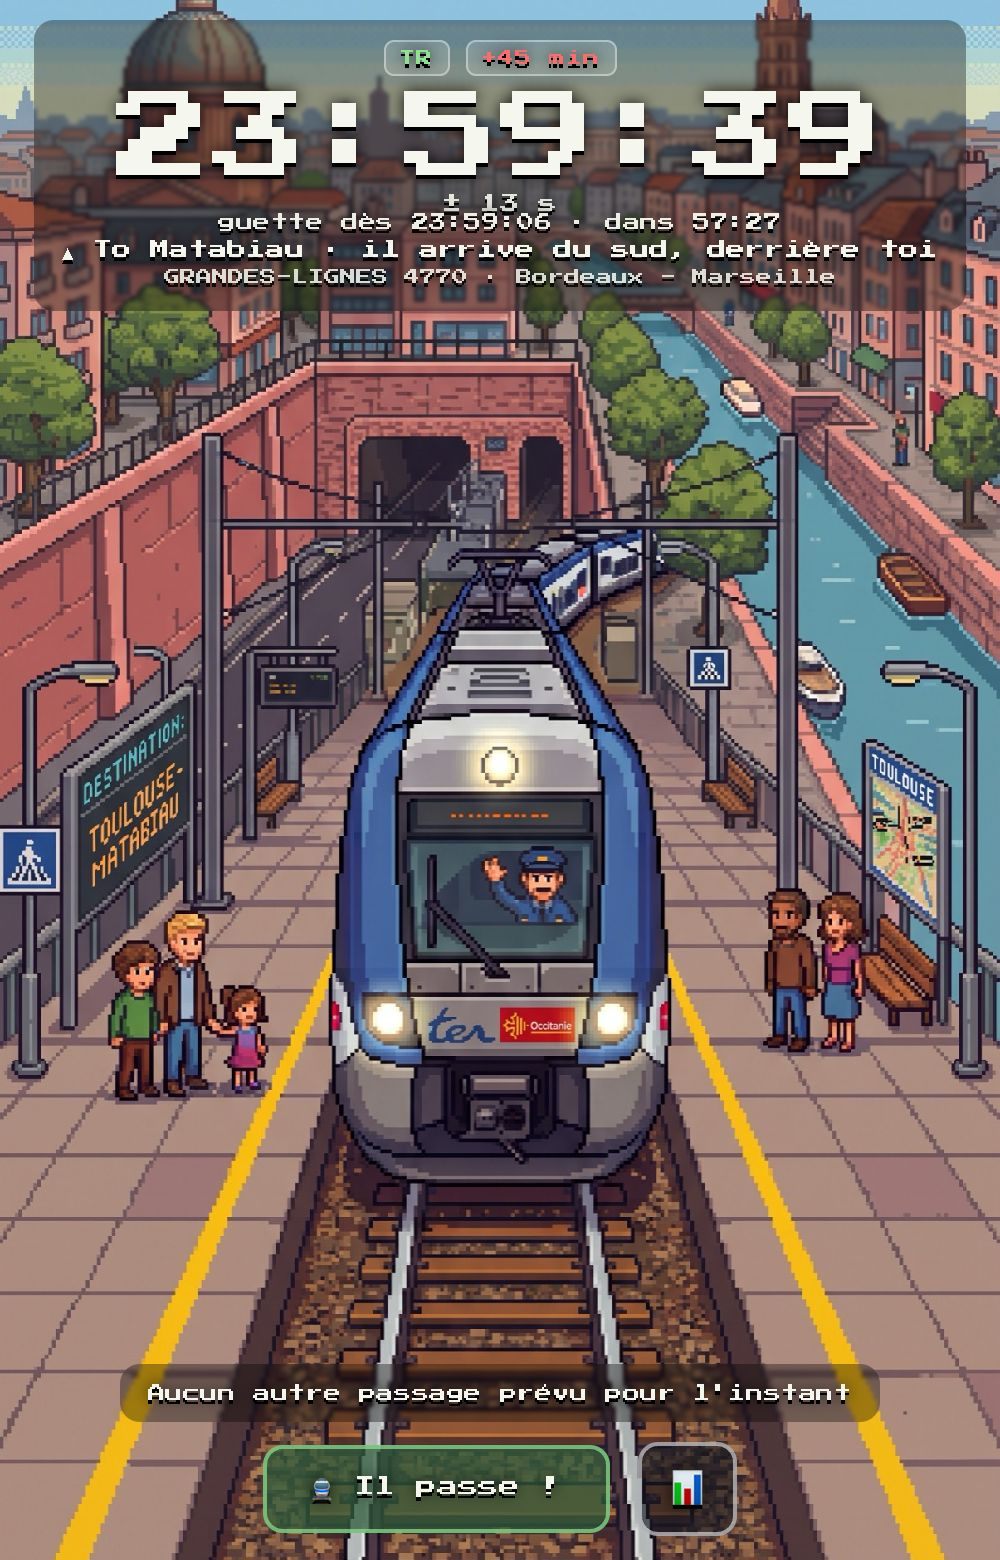
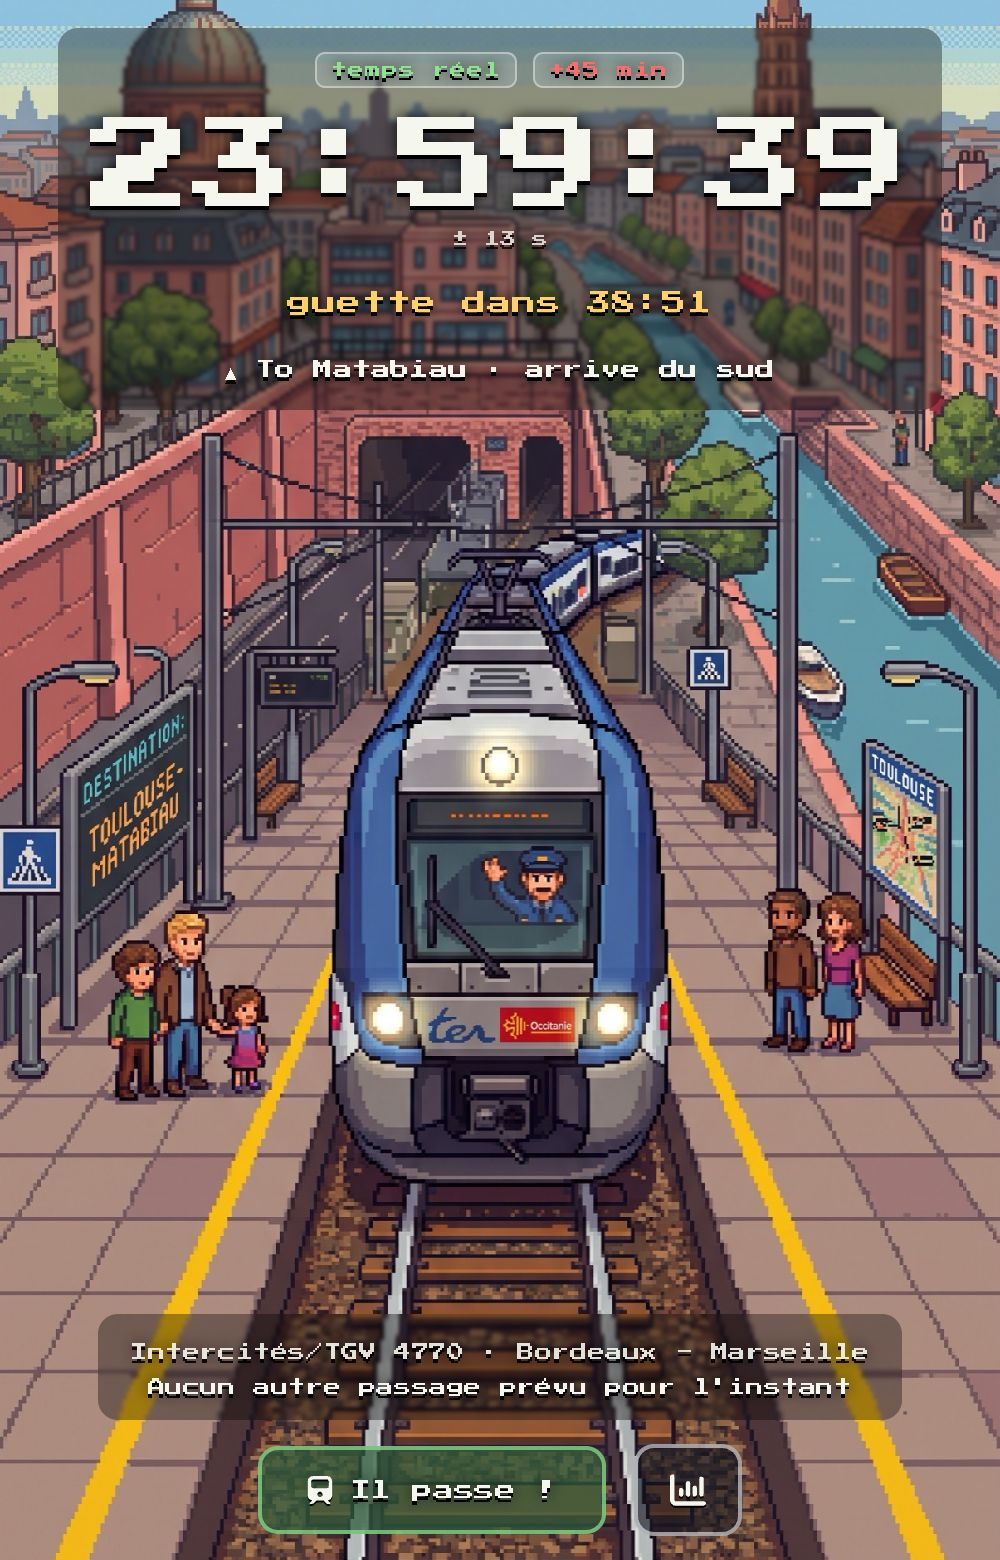
Itération d'interface d'après les retours du premier utilisateur
Réalisation par un agent sonnet sur consignes, revue et complétée fable.

La zone haute redescend à quatre niveaux aérés — badges, heure géante
avec l'incertitude intégrée, compte à rebours promu en accent ambré et
débarrassé du « dès HH:MM:SS » redondant, direction raccourcie. La ligne
d'identité du train descend dans la zone basse, qui avait la place, avec
un libellé de catégorie lisible (« Intercités/TGV », plus jamais
l'identifiant brut — l'agent a d'ailleurs relevé que la maquette de
démonstration écrivait la catégorie avec un tiret bas là où le serveur
met un trait d'union, et couvre les deux).

Les emojis des boutons cèdent la place à des vecteurs Font Awesome Free
en SVG inline — pas d'icônes Apple : la licence SF Symbols est limitée
aux plateformes Apple et le téléphone visé est un Pixel 9a, dont le
viewport 412×916 est désormais celui de référence (icône maskable au
manifest, vérifié aussi en 390×844).

La saisie manuelle d'un passage se pré-remplit à l'heure courante au
moment de l'ouverture.

Deux retouches nées de l'échange : le badge « TR » s'écrit désormais
« temps réel » — la question « que signifie TR ? » a suffi à prouver
qu'un sigle non compris n'informe personne — et le service worker passe
en réseau d'abord, cache en secours : en cache d'abord avec un nom figé,
le téléphone aurait servi à vie la première version téléchargée.

Claude-Session: https://claude.ai/code/session_016HczKdV5okpDZtYhaDDc1W

Changed region(s): [[0.031, 0.0, 0.992, 0.2769], [0.093, 0.8308, 0.899, 0.9846]]

diff --git a/webapp/app.css b/webapp/app.css
@@ -66,25 +66,26 @@ button {
 }
 
 /* Zone haute — le ciel dégagé + le haut du tunnel : calme sur l'illustration,
-   jamais jusqu'au nez du train. */
+   jamais jusqu'au nez du train. Quatre niveaux, aérés (§ retour utilisateur
+   « trop serré ») : badges → heure+incertitude → compte à rebours → direction. */
 .zone--sky {
   top: 0;
-  padding-top: calc(env(safe-area-inset-top) + 10px);
-  gap: 8px;
+  padding-top: calc(env(safe-area-inset-top) + 14px);
 }
 
-/* Zone basse — la voie et le ballast : calme, aucun personnage. */
+/* Zone basse — la voie et le ballast : calme, aucun personnage. Accueille
+   désormais l'identité du train, le passage suivant, puis les actions. */
 .zone--track {
   bottom: 0;
   padding-bottom: calc(env(safe-area-inset-bottom) + 12px);
-  gap: 10px;
+  gap: 12px;
 }
 
 .panel {
   pointer-events: none;
   background: var(--panel-bg);
   border-radius: 10px;
-  padding: 10px 14px;
+  padding: 12px 16px;
   backdrop-filter: blur(1px);
 }
 
@@ -93,6 +94,7 @@ button {
   gap: 8px;
   justify-content: center;
   flex-wrap: wrap;
+  margin-bottom: 4px;
 }
 
 .badge {
@@ -110,37 +112,53 @@ button {
 .badge--delay { color: var(--danger); }
 .badge--delay.on-time { color: var(--ok); }
 
+/* Niveau 2 : l'heure, géante, avec son incertitude collée dessous en petit —
+   les deux forment un seul bloc visuel, distinct du reste. */
+.time-group {
+  display: flex;
+  flex-direction: column;
+  align-items: center;
+  gap: 3px;
+  margin-top: 12px;
+}
+
 .big-time {
-  font-size: clamp(2.1rem, 11vw, 3rem);
-  line-height: 1.15;
+  font-size: clamp(2.3rem, 12vw, 3.2rem);
+  line-height: 1.1;
   text-shadow: var(--shadow-hard);
-  margin-top: 4px;
 }
 
 .uncertainty {
-  font-size: .6rem;
-  opacity: .9;
+  font-size: .5rem;
+  opacity: .8;
   text-shadow: var(--shadow-hard);
 }
 
+/* Niveau 3 : le compte à rebours, promu accent visuel (ambré), nettement
+   séparé du bloc heure au-dessus et de la direction en dessous. */
 .countdown {
-  font-size: .55rem;
-  opacity: .95;
+  font-size: .75rem;
+  color: var(--accent);
   text-shadow: var(--shadow-hard);
   min-height: 1.2em;
+  margin-top: 22px;
+  letter-spacing: .5px;
 }
 
+/* Niveau 4 : la direction, séparée à son tour. */
 .direction {
   font-size: .6rem;
   text-shadow: var(--shadow-hard);
   line-height: 1.6;
+  margin-top: 18px;
 }
 
 .train-info {
-  font-size: .5rem;
-  opacity: .85;
+  font-size: .55rem;
+  opacity: .9;
   text-shadow: var(--shadow-hard);
   line-height: 1.6;
+  margin-bottom: 6px;
 }
 
 /* État « imminent » : pulsation discrète entre announce_at - 30 s et
@@ -174,6 +192,10 @@ button {
 
 .btn {
   font-family: inherit;
+  display: inline-flex;
+  align-items: center;
+  justify-content: center;
+  gap: 8px;
   min-height: 44px;
   min-width: 44px;
   padding: 10px 16px;
@@ -189,6 +211,15 @@ button {
 
 .btn:active { transform: translateY(1px) scale(.98); }
 
+/* Icônes Font Awesome Free inline (cf. index.html) : `currentColor`, taille
+   harmonisée à la police pixel du bouton qui les porte. */
+.btn-icon {
+  width: 14px;
+  height: 14px;
+  flex-shrink: 0;
+  filter: drop-shadow(0 1px 0 #000);
+}
+
 .btn-seen {
   background: rgba(46, 92, 58, .72);
   border-color: rgba(143, 227, 143, .7);
@@ -197,8 +228,12 @@ button {
 }
 
 .btn-histo {
-  font-size: 1.1rem;
-  padding: 10px 14px;
+  padding: 12px 16px;
+}
+
+.btn-icon--solo {
+  width: 18px;
+  height: 18px;
 }
 
 .btn-small { font-size: .55rem; padding: 9px 14px; }

diff --git a/webapp/index.html b/webapp/index.html
@@ -36,29 +36,42 @@
 
 <main class="layer">
 
-  <!-- ZONE HAUTE — le ciel : prochain passage -->
+  <!-- ZONE HAUTE — le ciel : prochain passage. Quatre niveaux bien aérés :
+       badges, heure géante (+ incertitude, discrète, collée à l'heure),
+       compte à rebours (accent ambré), direction. L'identité du train est
+       descendue en zone basse (moins serré, plus de place là-bas). -->
   <section class="zone zone--sky" id="zone-sky">
     <div class="panel sky-panel" id="sky-panel">
       <div class="badge-row">
         <span class="badge badge--rt" id="badge-rt">—</span>
         <span class="badge badge--delay" id="badge-delay" hidden></span>
       </div>
-      <div class="big-time" id="big-time">—</div>
-      <div class="uncertainty" id="uncertainty">&nbsp;</div>
+      <div class="time-group">
+        <div class="big-time" id="big-time">—</div>
+        <div class="uncertainty" id="uncertainty">&nbsp;</div>
+      </div>
       <div class="countdown" id="countdown">&nbsp;</div>
       <div class="direction" id="direction">&nbsp;</div>
-      <div class="train-info" id="train-info">&nbsp;</div>
     </div>
   </section>
 
-  <!-- ZONE BASSE — la voie : passage suivant + actions -->
+  <!-- ZONE BASSE — la voie : plus de place ici, donc on y descend l'identité
+       du train (libellé de catégorie propre, jamais l'identifiant brut),
+       le passage suivant, puis les actions. -->
   <section class="zone zone--track" id="zone-track">
     <div class="panel next-panel">
+      <div class="train-info" id="train-info">&nbsp;</div>
       <div class="next-line" id="next-line">…</div>
     </div>
     <div class="actions">
-      <button id="btn-seen" class="btn btn-seen" type="button">🚆 Il passe !</button>
-      <button id="btn-histo" class="btn btn-histo" type="button" aria-label="Statistiques de passage">📊</button>
+      <!-- Icônes : Font Awesome Free (CC BY 4.0) — https://fontawesome.com/license/free -->
+      <button id="btn-seen" class="btn btn-seen" type="button">
+        <svg class="btn-icon" viewBox="0 0 448 512" fill="currentColor" aria-hidden="true"><path d="M96 0C43 0 0 43 0 96V352c0 48 35.2 87.7 81.1 94.9l-46 46C28.1 499.9 33.1 512 43 512H82.7c8.5 0 16.6-3.4 22.6-9.4L160 448H288l54.6 54.6c6 6 14.1 9.4 22.6 9.4H405c10 0 15-12.1 7.9-19.1l-46-46c46-7.1 81.1-46.9 81.1-94.9V96c0-53-43-96-96-96H96zM64 96c0-17.7 14.3-32 32-32H352c17.7 0 32 14.3 32 32v96c0 17.7-14.3 32-32 32H96c-17.7 0-32-14.3-32-32V96zM224 288a48 48 0 1 1 0 96 48 48 0 1 1 0-96z"/></svg>
+        Il passe !
+      </button>
+      <button id="btn-histo" class="btn btn-histo" type="button" aria-label="Statistiques de passage">
+        <svg class="btn-icon btn-icon--solo" viewBox="0 0 512 512" fill="currentColor" aria-hidden="true"><path d="M32 32c17.7 0 32 14.3 32 32V400c0 8.8 7.2 16 16 16H480c17.7 0 32 14.3 32 32s-14.3 32-32 32H80c-44.2 0-80-35.8-80-80V64C0 46.3 14.3 32 32 32zM160 224c17.7 0 32 14.3 32 32v64c0 17.7-14.3 32-32 32s-32-14.3-32-32V256c0-17.7 14.3-32 32-32zm128-64V320c0 17.7-14.3 32-32 32s-32-14.3-32-32V160c0-17.7 14.3-32 32-32s32 14.3 32 32zm64 32c17.7 0 32 14.3 32 32v96c0 17.7-14.3 32-32 32s-32-14.3-32-32V224c0-17.7 14.3-32 32-32zM480 96V320c0 17.7-14.3 32-32 32s-32-14.3-32-32V96c0-17.7 14.3-32 32-32s32 14.3 32 32z"/></svg>
+      </button>
     </div>
   </section>
 

diff --git a/webapp/app.js b/webapp/app.js
@@ -21,14 +21,18 @@ const CONFIRM_DELAY_MS = 90_000;      // carte après when + uncertainty + 90 s
 const CONFIRM_TTL_MS = 10 * 60_000;   // la carte s'efface après 10 min sans réponse
 
 // Phrases fixes liées à `look`, tel que fourni par le serveur (§ 3 et § 5).
+// Raccourcies (retour utilisateur : « trop serré ») — sans « derrière toi ».
 const LOOK_PHRASES = {
-  tunnel: 'il sort du tunnel',
-  sud: 'il arrive du sud, derrière toi',
+  tunnel: 'sort du tunnel',
+  sud: 'arrive du sud',
 };
 
 const CATEGORY_LABELS = {
   ter: 'TER',
-  grandes_lignes: 'Grandes lignes',
+  // Le serveur réel envoie « grandes-lignes » (trait d'union, cf.
+  // config/toulouse-guilhemery.toml) ; l'alias souligné est toléré au cas où.
+  'grandes-lignes': 'Intercités/TGV',
+  grandes_lignes: 'Intercités/TGV',
   intercites: 'Intercités',
   tgv: 'TGV',
   tgv_inoui: 'TGV inOui',
@@ -251,7 +255,9 @@ function describePhase(p, now) {
   const imminent = now >= annAt - IMMINENT_LEAD_MS && now <= endAt;
 
   let sub;
-  if (now < annAt) sub = `guette dès ${fmtHMS(p.announce_at)} · dans ${fmtDur(annAt - now)}`;
+  // Simplifié (retour utilisateur) : plus de « dès HH:MM:SS », redondant
+  // avec l'heure déjà affichée en grand juste au-dessus.
+  if (now < annAt) sub = `guette dans ${fmtDur(annAt - now)}`;
   else if (now < whenAt) sub = `à l'affût · passage dans ${fmtDur(whenAt - now)}`;
   else if (now <= endAt) sub = '👀 regarde, il devrait passer !';
   else sub = 'passage attendu…';
@@ -287,7 +293,7 @@ function renderSky() {
 
   badgeRt.hidden = false;
   if (p.realtime) {
-    badgeRt.textContent = 'TR';
+    badgeRt.textContent = 'temps réel';
     badgeRt.classList.remove('theoretical');
   } else {
     badgeRt.textContent = 'horaire théorique';
@@ -453,7 +459,16 @@ function onConfirmNo() {
   if (!p) return;
   pendingManualPassage = p;
   hideConfirmCard();
+  prefillManualTime();
   openSheet(manualSheetEl, manualBackdropEl);
+}
+
+/** Pré-remplit le champ heure avec l'heure courante au moment de l'OUVERTURE
+ *  de la sheet (pas au chargement de la page) : c'est la meilleure estimation
+ *  par défaut quand on répond « Non », l'utilisateur n'a plus qu'à l'ajuster. */
+function prefillManualTime() {
+  const now = new Date();
+  manualTimeInput.value = `${pad(now.getHours())}:${pad(now.getMinutes())}:${pad(now.getSeconds())}`;
 }
 
 // ---------------------------------------------------------------------------

diff --git a/webapp/sw.js b/webapp/sw.js
@@ -8,7 +8,7 @@
  * référence).
  */
 
-const CACHE_NAME = 'nexttraintosee-static-v1';
+const CACHE_NAME = 'nexttraintosee-static-v2';
 const STATIC_FILES = [
   './',
   'index.html',
@@ -41,16 +41,16 @@ self.addEventListener('fetch', (event) => {
   if (url.pathname.startsWith('/api/')) return;
   if (event.request.method !== 'GET') return;
 
+  // Réseau d'abord, cache en secours : le serveur est sur le réseau local,
+  // donc quasi toujours joignable — et l'app se met à jour dès qu'on la
+  // redéploie, au lieu de servir à vie la première version mise en cache.
   event.respondWith(
-    caches.match(event.request).then((cached) => {
-      if (cached) return cached;
-      return fetch(event.request).then((response) => {
-        if (response.ok && url.origin === location.origin) {
-          const copy = response.clone();
-          caches.open(CACHE_NAME).then((cache) => cache.put(event.request, copy));
-        }
-        return response;
-      }).catch(() => cached);
-    })
+    fetch(event.request).then((response) => {
+      if (response.ok && url.origin === location.origin) {
+        const copy = response.clone();
+        caches.open(CACHE_NAME).then((cache) => cache.put(event.request, copy));
+      }
+      return response;
+    }).catch(() => caches.match(event.request))
   );
 });
